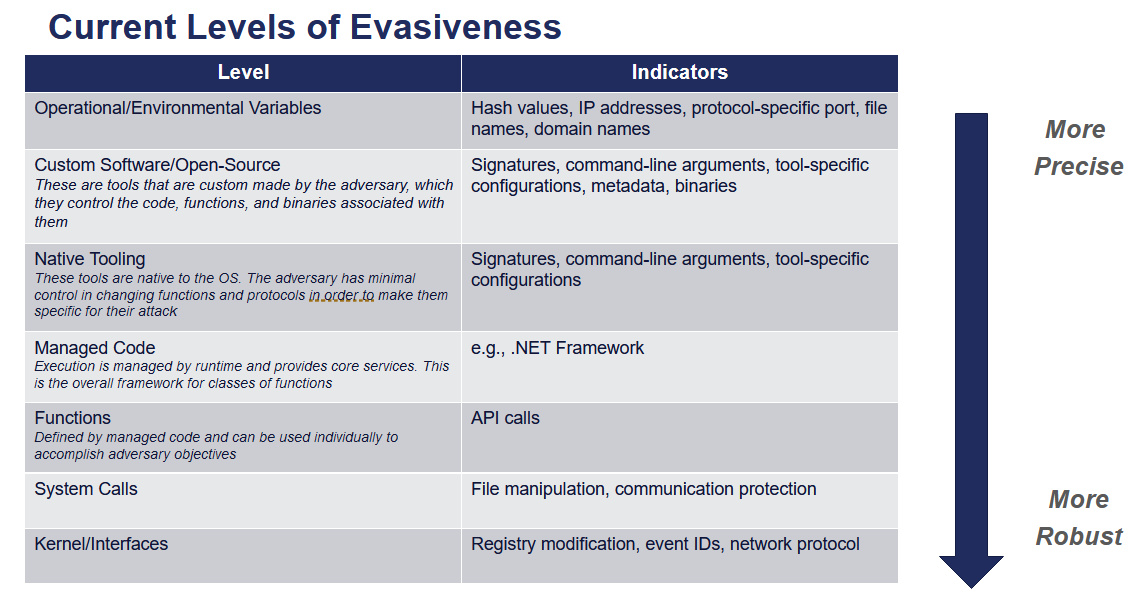
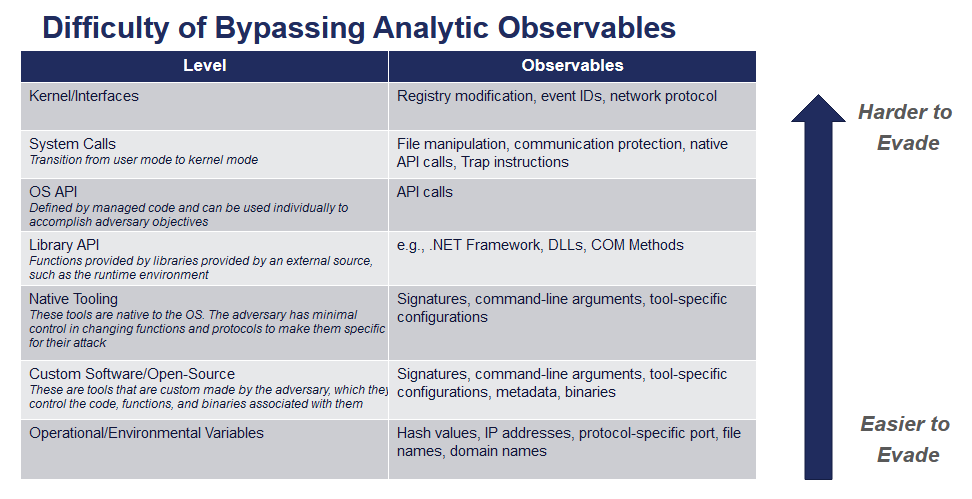
Updated methodology writeup to reflect changes to levels

diff --git a/docs/methodology.rst b/docs/methodology.rst
@@ -1,5 +1,6 @@
 Summit the Pyramid
 ==================
+Updated: 03/23/2023
 
 Goal of Summiting the Pyramid
 -----------------------------
@@ -23,17 +24,17 @@ The following capability abstraction map for T1050 - New Service illustrates how
 
 **How can we create analytics that detect adversary behavior and attacks while using the Pyramid of Pain and capability abstraction as references?**
 
-The Levels of Evasiveness
+Levels and Observables
 -------------------------
-The “Levels of Evasiveness” attempts to show the relationship between indicators used to detect adversary activities and robustness of resulting analytics in order to determine relative complexity of evasion. When analytics are created, the question should be asked, “How difficult would it be for an adversary to evade this analytic?” The Pyramid of Pain shows us how difficult it is for an adversary to change their behavior. The Levels of Evasiveness will focus on understanding how some levels are more evasive than others, resulting in more robust analytics which detect further into the OS.
+The table of levels and observables attempts to show the relationship between indicators used to detect adversary activities and robustness of resulting analytics in order to determine relative complexity of evasion. When analytics are created, the question should be asked, “How difficult would it be for an adversary to evade this analytic?” The Pyramid of Pain shows us how difficult it is for an adversary to change their behavior. These levels will focus on understanding how some analytic observables are more evasive or more difficult to bypass than others, resulting in more robust analytics which detect further into the OS.
 
-.. figure:: _static/levels_of_evasiveness.png
-   :alt: Levels of Evasiveness
+.. figure:: _static/levels_03232023.png
+   :alt: Difficulty of Bypassing Analytic Observables
    :align: center
 
-   Levels of Evasiveness
+   Levels and Observables
 
-While this reverse “pyramid” is used to inform defenders about the state of their analytic, it is not meant to imply judgement of certain analytics. As Jared Atkinson mentioned in his write-up on the Detection Spectrum, “There is a place for precise detections just like there is a place for broad detections” (https://posts.specterops.io/detection-spectrum-198a0bfb9302 ). These levels are used to inform how defenders can utilize indicators further down the technical stack to create less evade-able analytics, saving time, resources, and analyst workload. This can be used not only to create new analytics, but to improve current detections by reducing dependencies on lower levels on the Pyramid of Pain and the Levels of Evasiveness. Creating more defense-in-depth can be utilized to defend against future adversaries, and inform how to improve current analytic detections.
+While these levels are used to inform defenders about the state of their analytic, it is not meant to imply judgement of certain analytics. As Jared Atkinson mentioned in his write-up on the Detection Spectrum, “There is a place for precise detections just like there is a place for broad detections” (https://posts.specterops.io/detection-spectrum-198a0bfb9302 ). These levels are used to inform how defenders can utilize indicators further down the technical stack to create less evade-able analytics, saving time, resources, and analyst workload. This can be used not only to create new analytics, but to improve current detections by reducing dependencies on lower levels on the Pyramid of Pain and the levels listed here. Creating more defense-in-depth can be utilized to defend against future adversaries, and inform how to improve current analytic detections.
 
 Example: ADFind.exe
 -------------------
@@ -47,7 +48,7 @@ Analytic: ADFind (https://github.com/SigmaHQ/sigma/blob/30bee7204cc1b98a47635ed8
 
 We are given this analytic that looks for specific command line arguments dealing with the ADFind tool. It also looks for the key word ‘\adfind.exe’ within the image path. Looking at the current data sources provided by the analytic and the Levels of Evasiveness, we can begin to place where everything is. First, we place Image|endswith: ‘\adfind.exe’ within the **Operational and Environmental Variables** level. While the intention of this analytic is looking for the execution of commands through this tool, this image path can be obfuscated by adversaries within the command line. We put the command line arguments into the **Custom Software and Open Source** level, since these command line arguments are specific to the tool itself. The final placement of the analytic is below.
 
-.. figure:: _static/adfind_original.PNG
+.. figure:: _static/adfind_original_032023.PNG
    :alt: ADfind Original Analytic Level Scoring
    :align: center
 
@@ -57,7 +58,7 @@ As it stands, this analytic could be easily evaded by adversaries if they were t
 
 As mentioned previously, adversaries can change the image path name so detection tools do not detect the real tool they are attempting to use. However, they must declare the tool they are using somewhere. Adversaries must embed tools into their malware in order to know where to find the specific file to use. This can be identified through the data source **OriginalFileName**, a data source that is available through parsing in Sysmon. By tracking the embedded file rather than the image name, we can identify the tool the adversary is going to use. We can make the analytic improvements here, which have been highlighted in purple.
 
-.. figure:: _static/adfind_analytics_levels_improved.png
+.. figure:: _static/adfind_analytics_levels_improved_032023.png
    :alt: ADfind Improved Analytic Level Scoring
    :align: center
 
